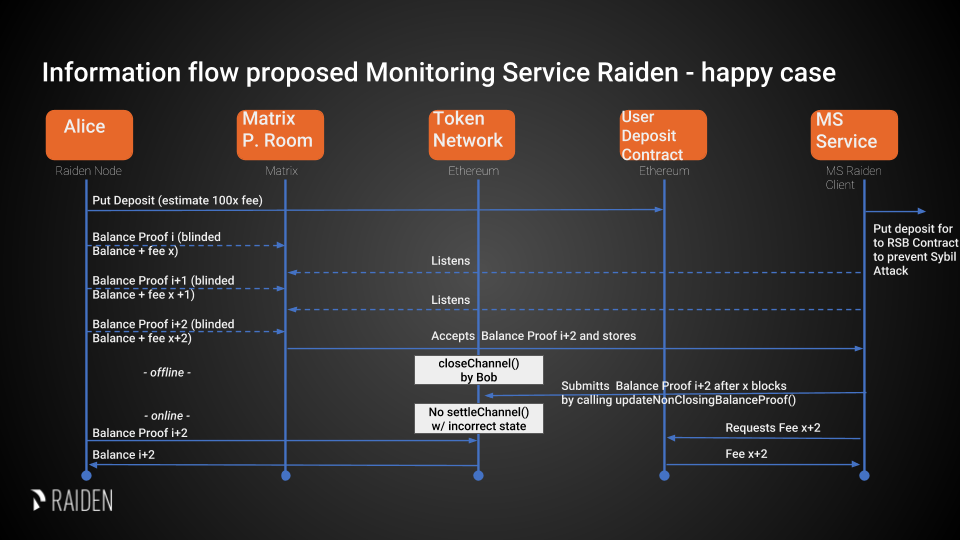
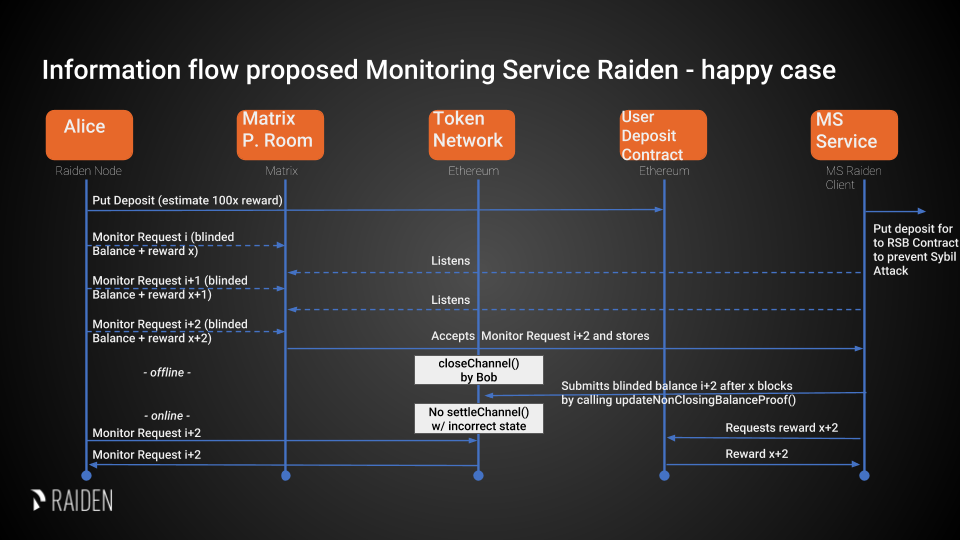
Changes "fee" into "reward" in the ms spec

diff --git a/monitoring_service.rst b/monitoring_service.rst
@@ -6,11 +6,11 @@ Raiden Monitoring Service
 
 Summary
 =======
-*   Monitoring Service (MS) listens to blinded Balance Proofs (BP) and proposed service fees in a public Matrix Room
-*   Any pre-registered MS can decide to monitor a channel and store corresponding BPs
+*   Monitoring Service (MS) listens to Monitor Requests (MRs - blinded Balance Proofs) and offered rewards in a public Matrix Room
+*   Any pre-registered MS can decide to monitor a channel and store corresponding MRs
 *   Then, whenever a channel is closed by calling ``closeChannel`` and after a period of x blocks where the client is
-    expected the react, the MS will call ``updateNonClosingBalanceProof`` with the submitted BP by its client
-*   Service fees are paid in RDN, there is no free tier
+    expected the react, the MS will call ``updateNonClosingBalanceProof`` with the submitted MR by its client
+*   Rewards are paid in RDN, there is no free tier
 *   In the short term we go for a simple design which will allow us to reach the Ithaca milestone earlier
 *   In the long-term we see the PISA approach as more economically viable and user friendly, but this design requires
     additional features and can be developed independently after Ithaca
@@ -23,7 +23,7 @@ closed by Bob with an incorrect balance proof.
 
 1)  Whenever Alice wants to get her channel monitored, Alice publishes her `Monitor Request`_ - including a blinded balance
     proofs - into a public chat room
-2)  Updates can be sent by Alice whenever the state or proposed fee changes
+2)  Updates can be sent by Alice whenever the state or offered reward changes
 3)  MSs can pick up these messages and then listen to ``ChannelClosed`` events regarding this particular channel
 4)  If so, whenever the channel is closed and before the settlement period has ended, the MS will call the
     ``updateNonClosingBalanceProof`` function with the provided information, after a period of x blocks where the client
@@ -90,7 +90,7 @@ they are. These tradeoffs are made to favor simplicity of implementation.
 Privacy
 -------
 
-The Recipient and the actual transferred amounts amount are hidden by providing a hashed balance proof (or state). This
+The recipient and the actual transferred amounts are hidden by providing a hashed balance proof (or state). This
 provides some sort of privacy even if it can potentially be recalculated.
 
 Security Analysis (inspired by PISA)
@@ -203,7 +203,7 @@ A Monitor Request consists of a the following fields:
 +--------------------------+------------+--------------------------------------------------------------------------------+
 |  non_closing_signature   | string     | Signature of the Onchain Balance Proof by the client                           |
 +--------------------------+------------+--------------------------------------------------------------------------------+
-|  reward_amount           | uint256    | Proposed fee in RDN                                                            |
+|  reward_amount           | uint256    | Offered reward in RDN                                                            |
 +--------------------------+------------+--------------------------------------------------------------------------------+
 |  reward_proof_signature  | string     | Signature of the reward proof data.                                            |
 +--------------------------+------------+--------------------------------------------------------------------------------+
